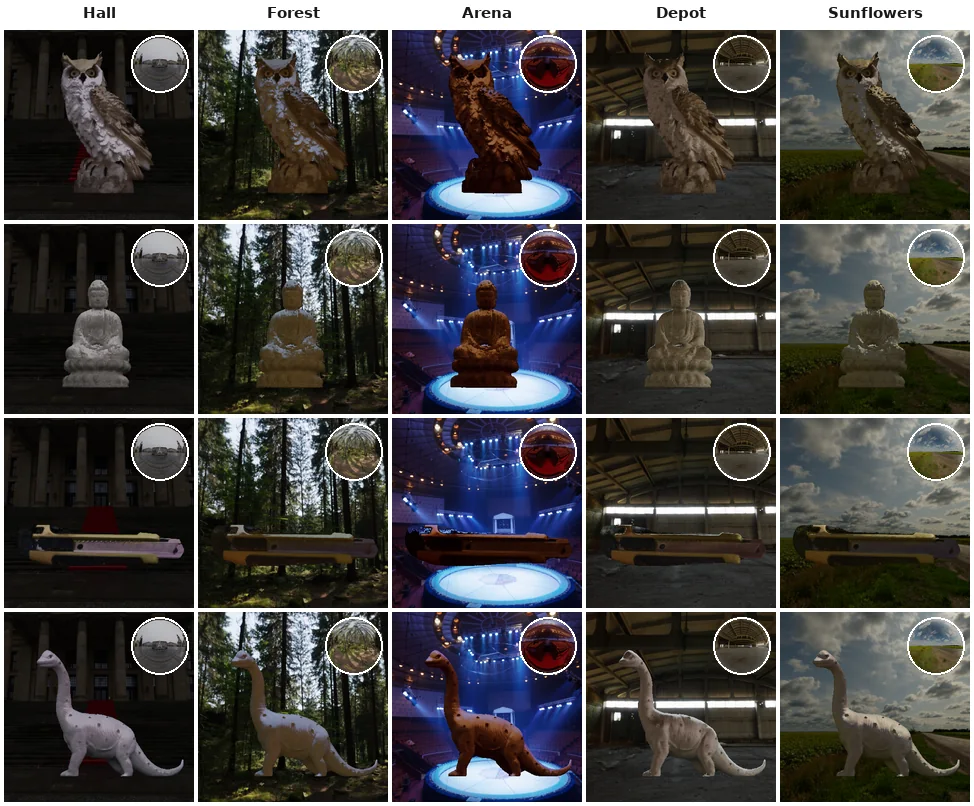
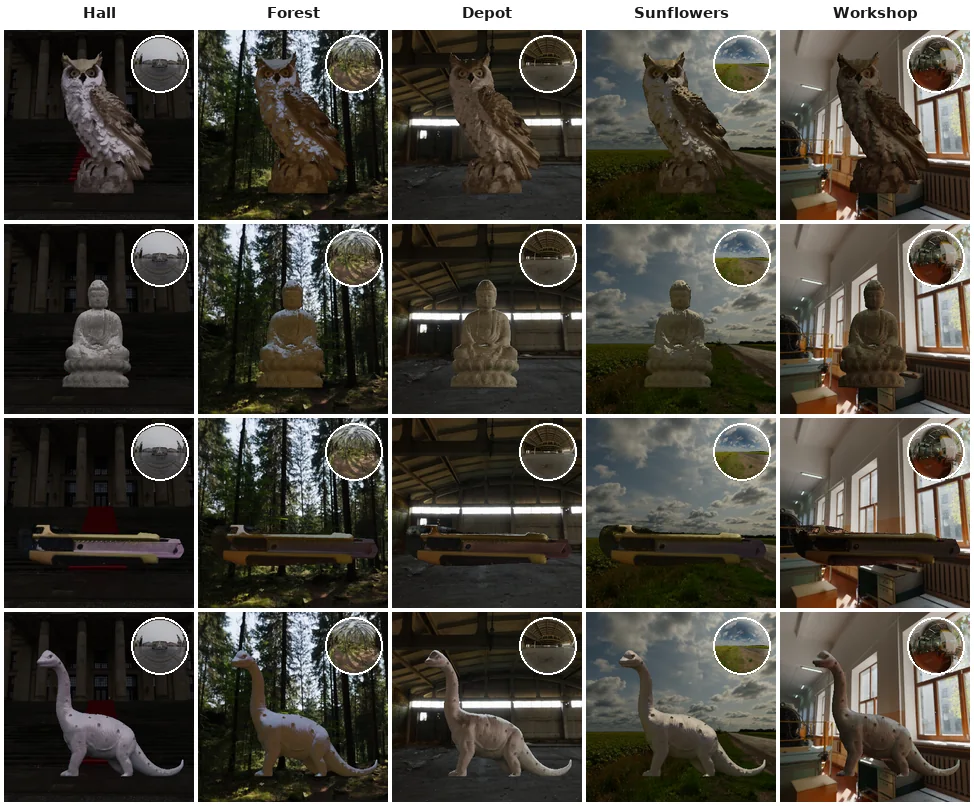
Widen the environment set, dim the Bund, align the clips
Arena and Snow are out. Seven environments come in: a workshop, a cinema, a
chapel, a sunrise field, open sky, a measuring lab and an esplanade. That makes
twenty, so lighting gains a fourth set and the grid count goes from nine to
twelve.

The Shanghai skyline tone-mapped much brighter than everything else, so it now
renders at exposure 0.5 while the rest stay at 1.0.

The dynamic clips still did not line up: Bulma's `.content figure:not(:first-child)`
adds a 2em top margin, and the rule I wrote to cancel it was a specificity
short. Matching it fixes the alignment.

diff --git a/index.html b/index.html
@@ -11,13 +11,13 @@
   <link href="https://fonts.googleapis.com/css?family=Google+Sans|Noto+Sans|Castoro"
         rel="stylesheet">
 
-  <link rel="stylesheet" href="./static/css/bulma.min.css?v=13">
+  <link rel="stylesheet" href="./static/css/bulma.min.css?v=14">
   <link rel="stylesheet" href="https://cdnjs.cloudflare.com/ajax/libs/font-awesome/5.15.3/css/all.min.css" />
-  <link rel="stylesheet" href="./static/css/index.css?v=13">
+  <link rel="stylesheet" href="./static/css/index.css?v=14">
 
-  <script defer src="./static/js/fontawesome.all.min.js?v=13"></script>
-  <script defer src="./static/js/index.js?v=13"></script>
-  <script defer src="./static/js/relight.js?v=13"></script>
+  <script defer src="./static/js/fontawesome.all.min.js?v=14"></script>
+  <script defer src="./static/js/index.js?v=14"></script>
+  <script defer src="./static/js/relight.js?v=14"></script>
 </head>
 <body>
 
@@ -93,7 +93,7 @@
           reflectance data.
         </p>
       </div>
-      <div class="figure-frame"><img src="./static/image/teaser.webp?v=13" alt="Teaser"></div>
+      <div class="figure-frame"><img src="./static/image/teaser.webp?v=14" alt="Teaser"></div>
     </div>
   </div>
 </section>
@@ -117,10 +117,10 @@
     </div>
 
     <p class="panel-title">Estimated PBR maps</p>
-    <div class="figure-frame pbr-frame"><img id="resPbr" src="./static/image/results/scene29_pbr.webp?v=13" alt="Estimated PBR maps"></div>
+    <div class="figure-frame pbr-frame"><img id="resPbr" src="./static/image/results/scene29_pbr.webp?v=14" alt="Estimated PBR maps"></div>
 
     <p class="panel-title">Relighting under a held-out display pattern</p>
-    <div class="figure-frame"><img id="resRelight" src="./static/image/results/scene29_relight.webp?v=13" alt="Relighting comparison"></div>
+    <div class="figure-frame"><img id="resRelight" src="./static/image/results/scene29_relight.webp?v=14" alt="Relighting comparison"></div>
   </div>
 
   <!-- ===================== Interactive relighting ===================== -->
@@ -147,18 +147,18 @@
       <span class="axis-label">Lighting</span>
       <div class="scene-tabs" id="envLightTabs"></div>
     </div>
-    <div class="figure-frame"><img id="envImg" src="./static/image/envgrid/o1_l1.webp?v=13" alt="Environment relighting grid"></div>
+    <div class="figure-frame"><img id="envImg" src="./static/image/envgrid/o1_l1.webp?v=14" alt="Environment relighting grid"></div>
   </div>
 
   <!-- ===================== Dynamic scene ===================== -->
   <h2>Dynamic scene</h2>
   <div class="video-pair">
     <figure>
-      <video src="./static/video/dynamic_capture.mp4?v=13" autoplay loop muted playsinline></video>
+      <video src="./static/video/dynamic_capture.mp4?v=14" autoplay loop muted playsinline></video>
       <figcaption>Capture</figcaption>
     </figure>
     <figure>
-      <video src="./static/video/dynamic_relit.mp4?v=13" autoplay loop muted playsinline></video>
+      <video src="./static/video/dynamic_relit.mp4?v=14" autoplay loop muted playsinline></video>
       <figcaption>Relit, frame by frame</figcaption>
     </figure>
   </div>
@@ -171,7 +171,7 @@
     <li>A quarter-wave plate on the lens trades <em>S</em><sub>2</sub> for <em>S</em><sub>3</sub>, making circular polarization measurable.</li>
     <li>Per channel: unpolarized = <em>S</em><sub>0</sub>&minus;<em>S</em><sub>1</sub>, LP = &minus;<em>S</em><sub>1</sub>, CP = <em>S</em><sub>3</sub>/<em>S</em><sub>0</sub>.</li>
   </ul>
-  <div class="figure-frame"><img src="./static/image/imaging_system.webp?v=13" alt="Display-camera imaging system"></div>
+  <div class="figure-frame"><img src="./static/image/imaging_system.webp?v=14" alt="Display-camera imaging system"></div>
 
   <!-- ===================== Method ===================== -->
   <h2>Feed-forward inverse rendering</h2>
@@ -180,7 +180,7 @@
     <li>Attention alternates over space, spectral channel, polarization state and frames.</li>
     <li>One forward pass &rarr; normal, albedo, roughness, metallicity.</li>
   </ul>
-  <div class="figure-frame"><img src="./static/image/overview.webp?v=13" alt="Network overview"></div>
+  <div class="figure-frame"><img src="./static/image/overview.webp?v=14" alt="Network overview"></div>
 
   <!-- ===================== Dataset ===================== -->
   <h2>Expanded pBRDF dataset</h2>
@@ -191,10 +191,10 @@
   </ul>
   <div class="columns is-centered">
     <div class="column is-three-fifths">
-      <div class="figure-frame"><img src="./static/image/expand_data.webp?v=13" alt="pBRDF expansion pipeline"></div>
+      <div class="figure-frame"><img src="./static/image/expand_data.webp?v=14" alt="pBRDF expansion pipeline"></div>
     </div>
   </div>
-  <div class="figure-frame"><img src="./static/image/pbrdf_expansion.webp?v=13" alt="Synthesized pBRDF instances"></div>
+  <div class="figure-frame"><img src="./static/image/pbrdf_expansion.webp?v=14" alt="Synthesized pBRDF instances"></div>
 
   <!-- ===================== Citation ===================== -->
   <h2 id="citation">Citation</h2>

diff --git a/static/js/index.js b/static/js/index.js
@@ -94,7 +94,7 @@
     });
   }
 
-  var ASSET_V = '?v=13';
+  var ASSET_V = '?v=14';
 
   var SCENES = [
     { label: 'Cat', key: 'scene29' },
@@ -121,7 +121,7 @@
       target: 'envImg',
       axes: [
         { tabs: 'envObjTabs', labels: ['Set 1', 'Set 2', 'Set 3'] },
-        { tabs: 'envLightTabs', labels: ['Set 1', 'Set 2', 'Set 3'] }
+        { tabs: 'envLightTabs', labels: ['Set 1', 'Set 2', 'Set 3', 'Set 4'] }
       ],
       src: function (o, l) {
         return './static/image/envgrid/o' + (o + 1) + '_l' + (l + 1) + '.webp' + ASSET_V;

diff --git a/static/css/index.css b/static/css/index.css
@@ -406,6 +406,9 @@ table.res-table.narrow { min-width: 480px; }
   max-width: 800px;
   margin: 0 auto;
 }
+/* Bulma's `.content figure:not(:first-child)` adds a 2em top margin, which
+   drops the second clip below the first. Matching its specificity wins. */
+.content .video-pair figure,
 .video-pair figure {
   margin: 0;
 }

diff --git a/static/js/relight.js b/static/js/relight.js
@@ -8,7 +8,7 @@
 (function () {
   'use strict';
 
-  var ASSET_V = '?v=13';
+  var ASSET_V = '?v=14';
 
   var SCENES = [
     { label: 'Cat', key: 'scene29' },

diff --git a/README.md b/README.md
@@ -43,7 +43,7 @@ file under the same name.
 |---|---|
 | `image/results/<scene>_pbr.webp` | methods down the rows, modalities across; column 0 is each method's own preprocessed input, exposed to a common foreground mean so the column is comparable &mdash; ours is solved in the linear HDR domain before the gamma, and estimated maps are untouched. Fixed source height (888 px), width follows the object; the page pins one displayed height for every scene and lets the figure run wider than the text column so the flattest object still fits |
 | `image/results/<scene>_relight.webp` | `PDIR/outputs/render_12pat_5method_bright_crop`, pattern `AntiDiag` |
-| `image/envgrid/o{1..3}_l{1..3}.webp` | 12 objects x 15 environments as nine 4x5 grids, object set and lighting set chosen independently on the page. `fg_gain=2.7`, background through `make_perspective_bg` at 65 deg rather than the module's default panoramic crop, mirror ball top-right from `render_env_3scene_5method_xflip/_chromeballs` |
+| `image/envgrid/o{1..3}_l{1..3}.webp` | 12 objects x 20 environments as twelve 4x5 grids, object set and lighting set chosen independently on the page. `fg_gain=2.7` (Shanghai Bund at exposure 0.5, it tone-maps far brighter than the rest), background through `make_perspective_bg` at 65 deg rather than the module's default panoramic crop, mirror ball top-right from `render_env_3scene_5method_xflip/_chromeballs` |
 | `video/dynamic_{capture,relit}.mp4` | `outputs/face_pipeline_scene4_20260914_vanila/_videos_realtime_capturefps`, re-encoded from MPEG-4 to H.264 so browsers can play them |
 | `webgl/<scene>_{albedo,normal,mat}.png` | `pipeline_vanila_valid_final` maps; `mat` packs roughness, metallicity and mask into R, G, B |
 
